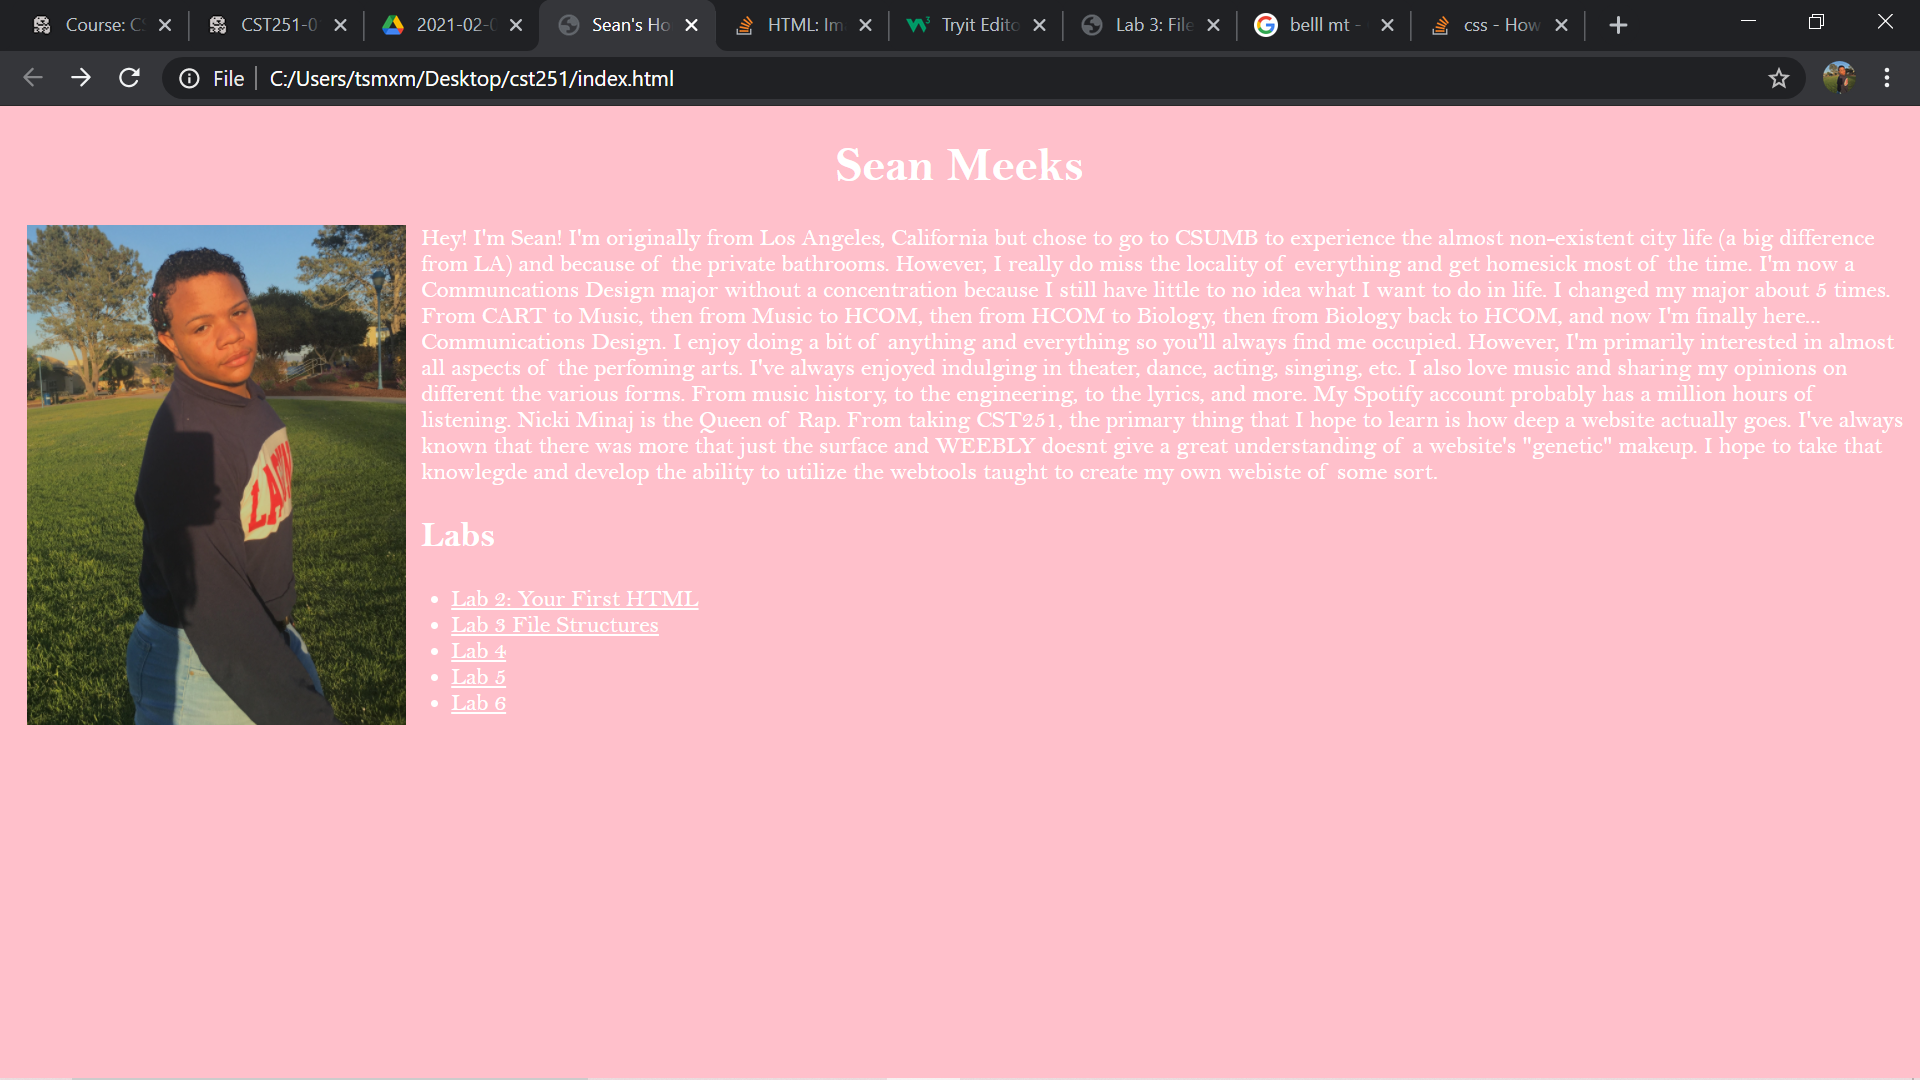
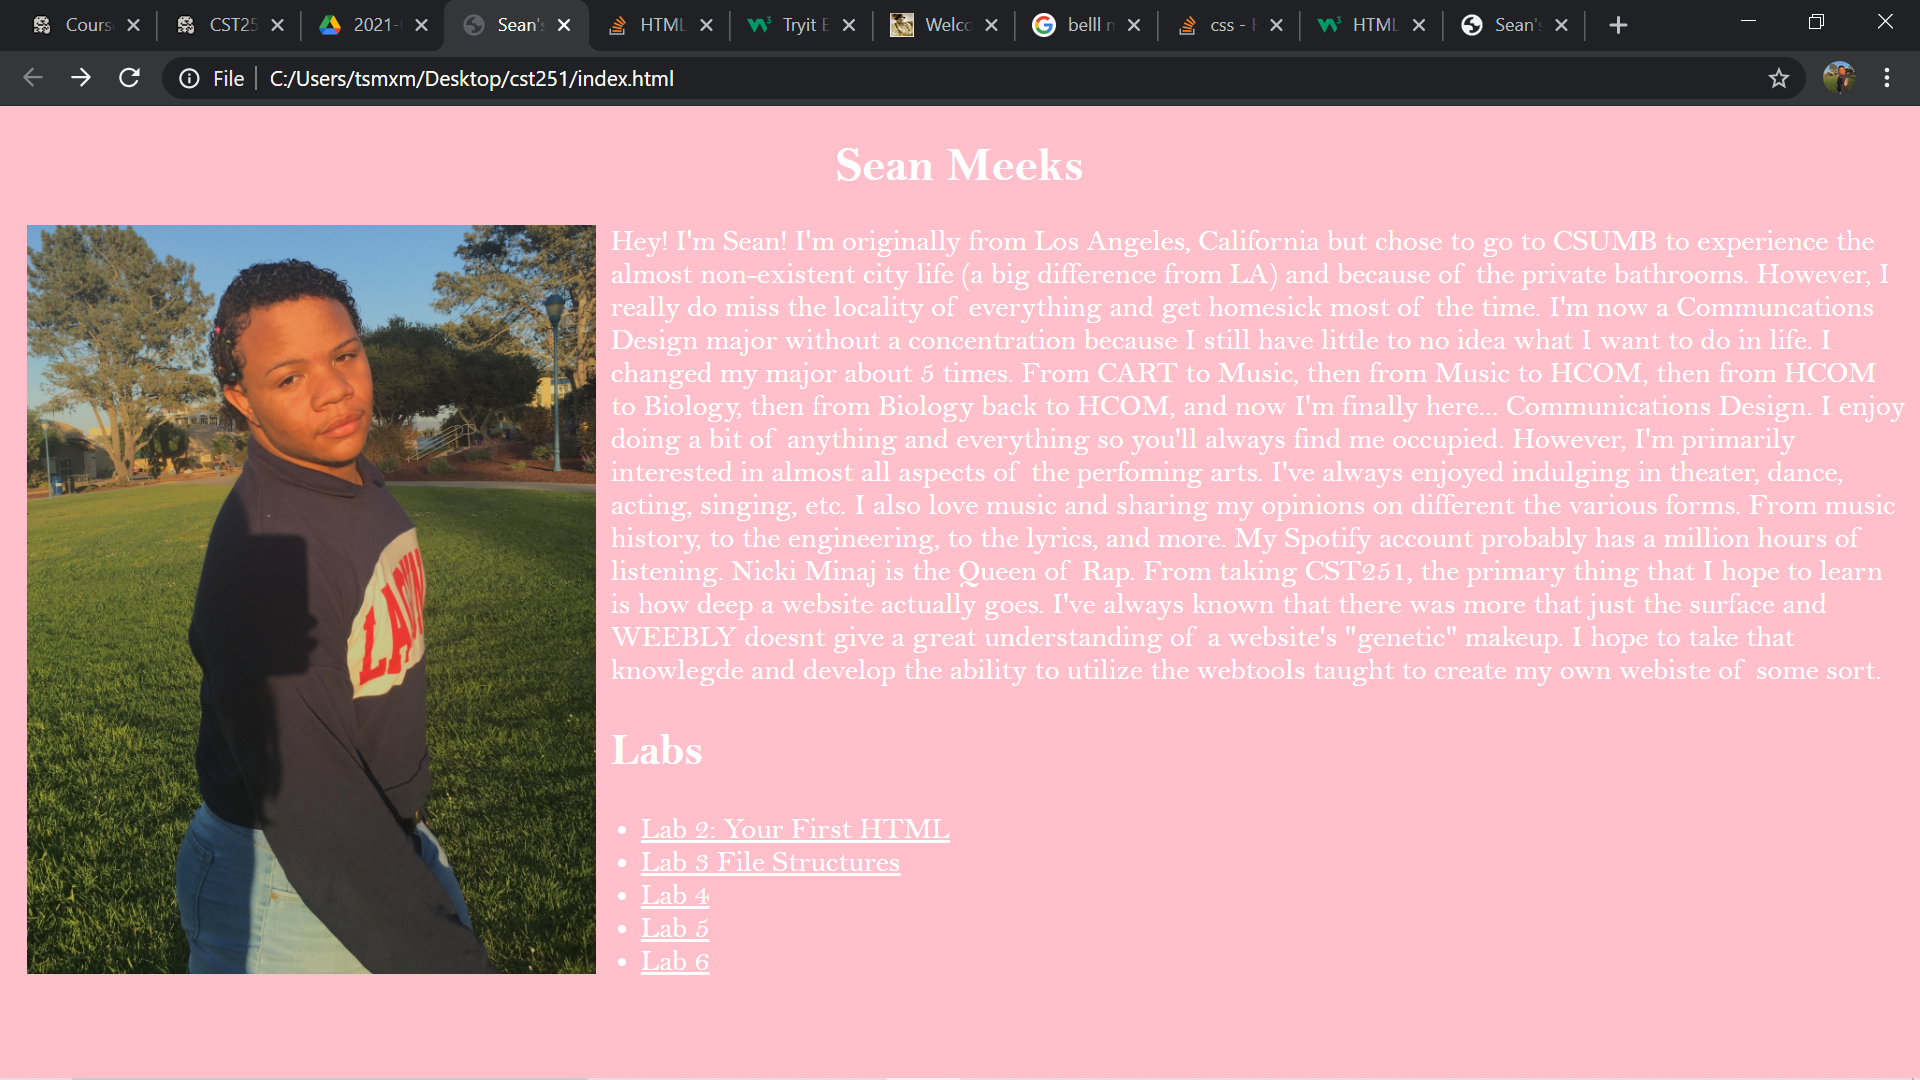
lab 3

Changed region(s): [[0.0, 0.1833, 1.0, 0.9167], [0.0625, 0.0, 0.8125, 0.0306]]

diff --git a/css/site.css b/css/site.css
@@ -7,15 +7,18 @@ h1,h2 {
 h1 {
   text-align: center;
 }
+h2 {
+  font-size: 30px
+}
 p, p2 {
-  color: white;
+  color: white; font-size: 20px
 }
 ul, a {
-  color: white;
+  color: white; font-size: 20px
 }
 img {
-  width: 20%;
+  width: 30%;
 }
 ul {
-  margin-left: 20%
+  margin-left: 30%
 }
